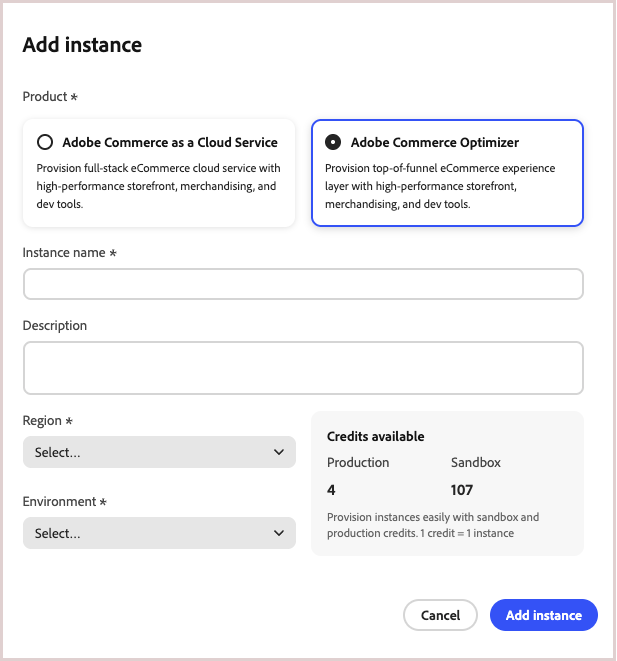
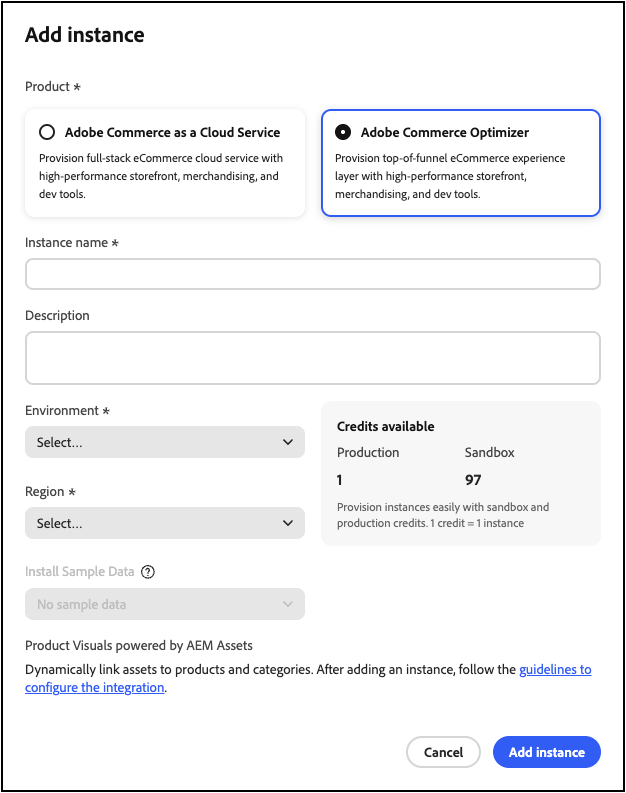
Updating GS screenshot

diff --git a/help/optimizer/get-started.md b/help/optimizer/get-started.md
@@ -34,12 +34,12 @@ Follow these essential steps to get your [!DNL Adobe Commerce Optimizer] environ
 1. Configure instance settings:
    - **Name**: Descriptive name (for example, "My Company Sandbox")
    - **Description**: Brief description of purpose
-   - **Region**: Select your preferred region
    - **Environment Type**: Start with a **Sandbox** environment for testing
+   - **Region**: Select your preferred region
 
 1. Click **Add Instance**.
 
-   The Cloud Manager updates to include your new instance. For details on accessing and managing it, see [Manage an instance](#manage-an-instance).
+   The Cloud Manager updates to include your new instance. For details on accessing and managing it, see [Manage an instance](#manage-instances).
 
 >[!NOTE]
 >
@@ -49,7 +49,7 @@ Follow these essential steps to get your [!DNL Adobe Commerce Optimizer] environ
 
 After creating your instance:
 
-1. [Manage your instance](#manage-an-instance) from Commerce Cloud Manager.
+1. [Manage your instance](#manage-instances) from Commerce Cloud Manager.
 1. Configure user access using the [User Management guide](./user-management.md).
 
 ### Step 3. Add sample data (Optional)

diff --git a/help/optimizer/setup/events/overview.md b/help/optimizer/setup/events/overview.md
@@ -56,7 +56,7 @@ This table describes the events used by product discovery [ranking strategies](.
 | Most added to cart |  `page-view`<br>`add-to-cart` | Product detail page<br>Product listing page<br>Cart<br>Wish List |
 | Viewed this, viewed that |  `page-view`<br>`product-view` | Product detail page |
 
-### Required dashboard events
+#### Required dashboard events
 
 Some events are required to populate the [search performance dashboard](../../manage-results/search-performance.md)
 
